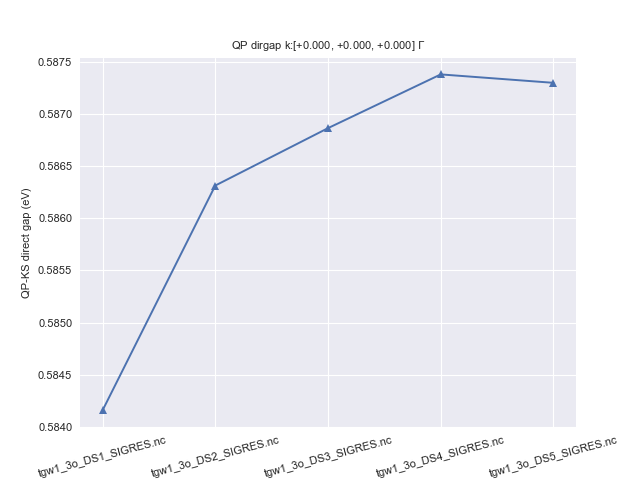
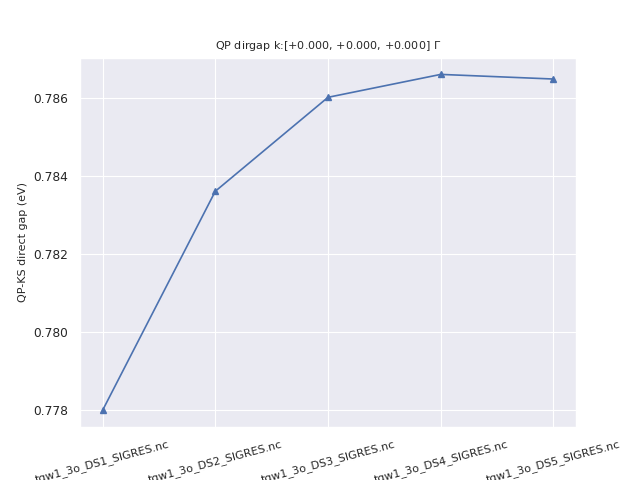
GW1 tutorial beautified including abipy sections

diff --git a/doc/tutorial/gw1.md b/doc/tutorial/gw1.md
@@ -435,7 +435,7 @@ abiopen.py tgw1_1o_DS4_SIGRES.nc -p
 ================================= Structure =================================
 Full Formula (Si2)
 Reduced Formula: Si
-abc   :   3.838648   3.838648   3.838648
+abc   :   3.839136   3.839136   3.839136
 angles:  60.000000  60.000000  60.000000
 Sites (2)
   #  SP       a     b     c
@@ -446,33 +446,39 @@ Sites (2)
 Abinit Spacegroup: spgid: 0, num_spatial_symmetries: 48, has_timerev: True, symmorphic: True
 
 ============================== Kohn-Sham bands ==============================
-Number of electrons: 8.0, Fermi level: 6.246 (eV)
-nsppol: 1, nkpt: 6, mband: 30, nspinor: 1, nspden: 1
+Number of electrons: 8.0, Fermi level: 4.773 (eV)
+nsppol: 1, nkpt: 6, mband: 80, nspinor: 1, nspden: 1
 smearing scheme: none, tsmear_eV: 0.272, occopt: 1
 Direct gap:
     Energy: 2.544 (eV)
-    Initial state: spin=0, kpt=[+0.000, +0.000, +0.000], weight: 0.031, band=3, eig=5.967, occ=2.000
-    Final state:   spin=0, kpt=[+0.000, +0.000, +0.000], weight: 0.031, band=4, eig=8.472, occ=0.000
+    Initial state: spin: 0, kpt: [+0.000, +0.000, +0.000], weight: 0.031, band: 3, eig: 4.418, occ: 2.000
+    Final state:   spin: 0, kpt: [+0.000, +0.000, +0.000], weight: 0.031, band: 4, eig: 6.961, occ: 0.000
 Fundamental gap:
-    Energy: 0.558 (eV)
-    Initial state: spin=0, kpt=[+0.000, +0.000, +0.000], weight: 0.031, band=3, eig=5.967, occ=2.000
-    Final state:   spin=0, kpt=[+0.500, +0.500, +0.000], weight: 0.094, band=4, eig=6.525, occ=0.000
-Bandwidth: 12.101 (eV)
+    Energy: 0.710 (eV)
+    Initial state: spin: 0, kpt: [+0.000, +0.000, +0.000], weight: 0.031, band: 3, eig: 4.418, occ: 2.000
+    Final state:   spin: 0, kpt: [+0.500, +0.500, +0.000], weight: 0.094, band: 4, eig: 5.128, occ: 0.000
+Bandwidth: 11.985 (eV)
 Valence maximum located at:
-    spin=0, kpt=[+0.000, +0.000, +0.000], weight: 0.031, band=3, eig=5.967, occ=2.000
+    spin: 0, kpt: [+0.000, +0.000, +0.000], weight: 0.031, band: 3, eig: 4.418, occ: 2.000
 Conduction minimum located at:
-    spin=0, kpt=[+0.500, +0.500, +0.000], weight: 0.094, band=4, eig=6.525, occ=0.000
+    spin: 0, kpt: [+0.500, +0.500, +0.000], weight: 0.094, band: 4, eig: 5.128, occ: 0.000
+
+TIP: Call set_fermie_to_vbm() to set the Fermi level to the VBM if this is a non-magnetic semiconductor
 
 
 =============================== QP direct gaps ===============================
 QP_dirgap: 3.110 (eV) for K-point: [+0.000, +0.000, +0.000] $\Gamma$, spin: 0
 
 
-============== QP results for each k-point and spin (All in eV) ==============
+============== QP results for each k-point and spin (all in eV) ==============
 K-point: [+0.000, +0.000, +0.000] $\Gamma$, spin: 0
-   band     e0    qpe  qpe_diago   vxcme  sigxme  sigcmee0  vUme   ze0
-3     3  5.967  5.835      5.796 -11.268 -13.253     1.814   0.0  0.77
-4     4  8.472  8.955      9.099 -10.056  -5.573    -3.856   0.0  0.77
+   band     e0    qpe  qpe_diago   vxcme  sigxme  sigcmee0  vUme    ze0
+1     1  4.418  3.975      3.840 -11.332 -13.262     1.352   0.0  0.766
+2     2  4.418  3.975      3.840 -11.332 -13.262     1.352   0.0  0.766
+3     3  4.418  3.975      3.840 -11.332 -13.262     1.352   0.0  0.766
+4     4  6.961  7.085      7.123 -10.028  -5.550    -4.316   0.0  0.766
+5     5  6.961  7.085      7.123 -10.028  -5.550    -4.316   0.0  0.766
+6     6  6.961  7.085      7.123 -10.028  -5.550    -4.316   0.0  0.766
 ```
 
 For further details about the SIGRES.nc file and the AbiPy API see the |SigresFileNb|.
@@ -585,25 +591,25 @@ $ abicomp.py sigres tgw1_3o_*_SIGRES.nc -e -sns
 
 Output of robot.get_dataframe():
                        nsppol     qpgap  nspinor  nspden  nband  nkpt  \
-tgw1_3o_DS1_SIGRES.nc       1  3.114257        1       1     50     1
-tgw1_3o_DS2_SIGRES.nc       1  3.116411        1       1    100     1
-tgw1_3o_DS3_SIGRES.nc       1  3.116962        1       1    150     1
-tgw1_3o_DS4_SIGRES.nc       1  3.117476        1       1    200     1
-tgw1_3o_DS5_SIGRES.nc       1  3.117396        1       1    250     1
+tgw1_3o_DS1_SIGRES.nc       1  3.221130        1       1     50     3   
+tgw1_3o_DS2_SIGRES.nc       1  3.226755        1       1    100     3   
+tgw1_3o_DS3_SIGRES.nc       1  3.229167        1       1    150     3   
+tgw1_3o_DS4_SIGRES.nc       1  3.229755        1       1    200     3   
+tgw1_3o_DS5_SIGRES.nc       1  3.229636        1       1    250     3   
 
-                        ecutwfn   ecuteps  ecutsigx  scr_nband  sigma_nband  \
-tgw1_3o_DS1_SIGRES.nc  7.563851  5.105599  7.563851         25           50
-tgw1_3o_DS2_SIGRES.nc  7.563851  5.105599  7.563851         25          100
-tgw1_3o_DS3_SIGRES.nc  7.563851  5.105599  7.563851         25          150
-tgw1_3o_DS4_SIGRES.nc  7.563851  5.105599  7.563851         25          200
-tgw1_3o_DS5_SIGRES.nc  7.563851  5.105599  7.563851         25          250
+                       ecutwfn   ecuteps  ecutsigx  scr_nband  sigma_nband  \
+tgw1_3o_DS1_SIGRES.nc      8.0  5.062893       8.0         60           50   
+tgw1_3o_DS2_SIGRES.nc      8.0  5.062893       8.0         60          100   
+tgw1_3o_DS3_SIGRES.nc      8.0  5.062893       8.0         60          150   
+tgw1_3o_DS4_SIGRES.nc      8.0  5.062893       8.0         60          200   
+tgw1_3o_DS5_SIGRES.nc      8.0  5.062893       8.0         60          250   
 
-                       gwcalctyp  scissor_ene
-tgw1_3o_DS1_SIGRES.nc          0          0.0
-tgw1_3o_DS2_SIGRES.nc          0          0.0
-tgw1_3o_DS3_SIGRES.nc          0          0.0
-tgw1_3o_DS4_SIGRES.nc          0          0.0
-tgw1_3o_DS5_SIGRES.nc          0          0.0
+                       gwcalctyp  scissor_ene  
+tgw1_3o_DS1_SIGRES.nc          0          0.0  
+tgw1_3o_DS2_SIGRES.nc          0          0.0  
+tgw1_3o_DS3_SIGRES.nc          0          0.0  
+tgw1_3o_DS4_SIGRES.nc          0          0.0  
+tgw1_3o_DS5_SIGRES.nc          0          0.0  
 ```
 
 ![](gw1_assets/abicomp_sigres_tgw1_3o.png)
